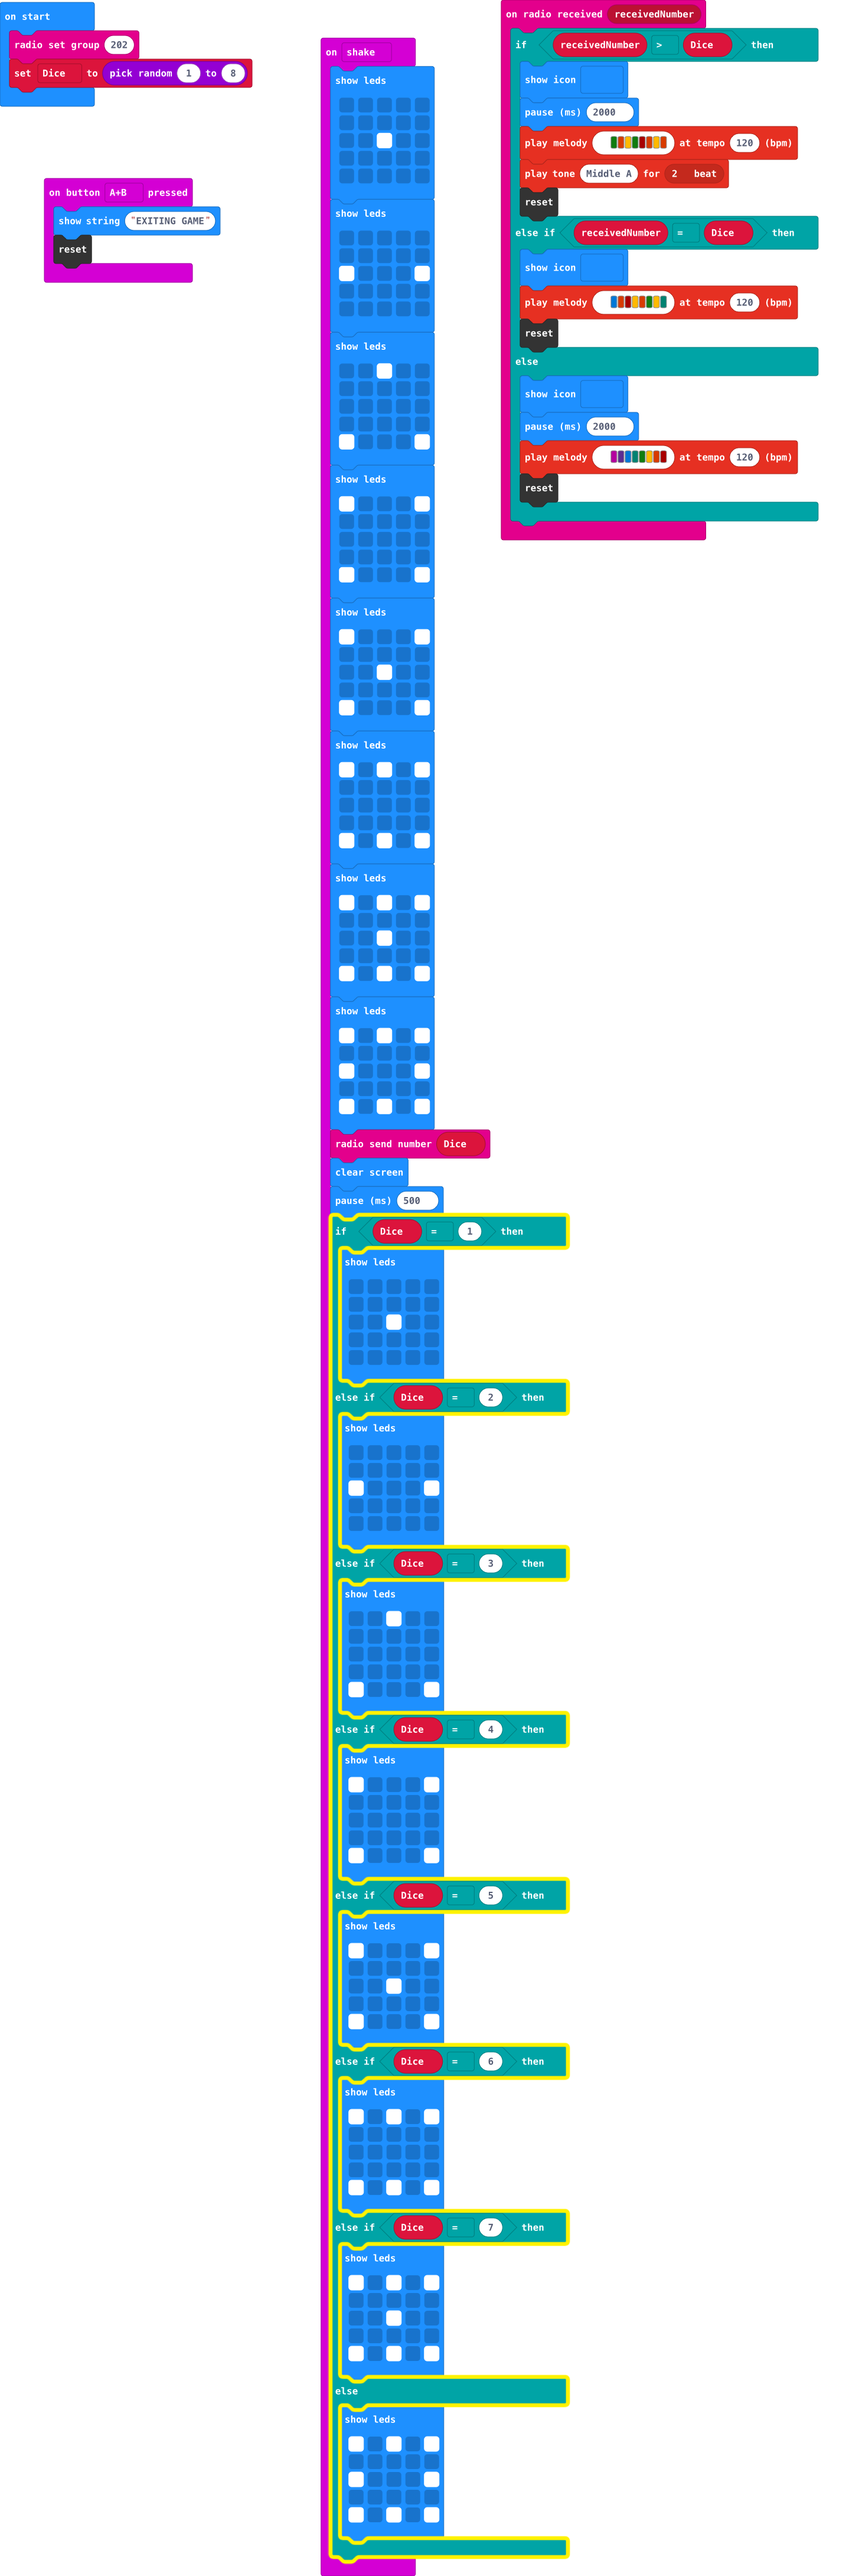
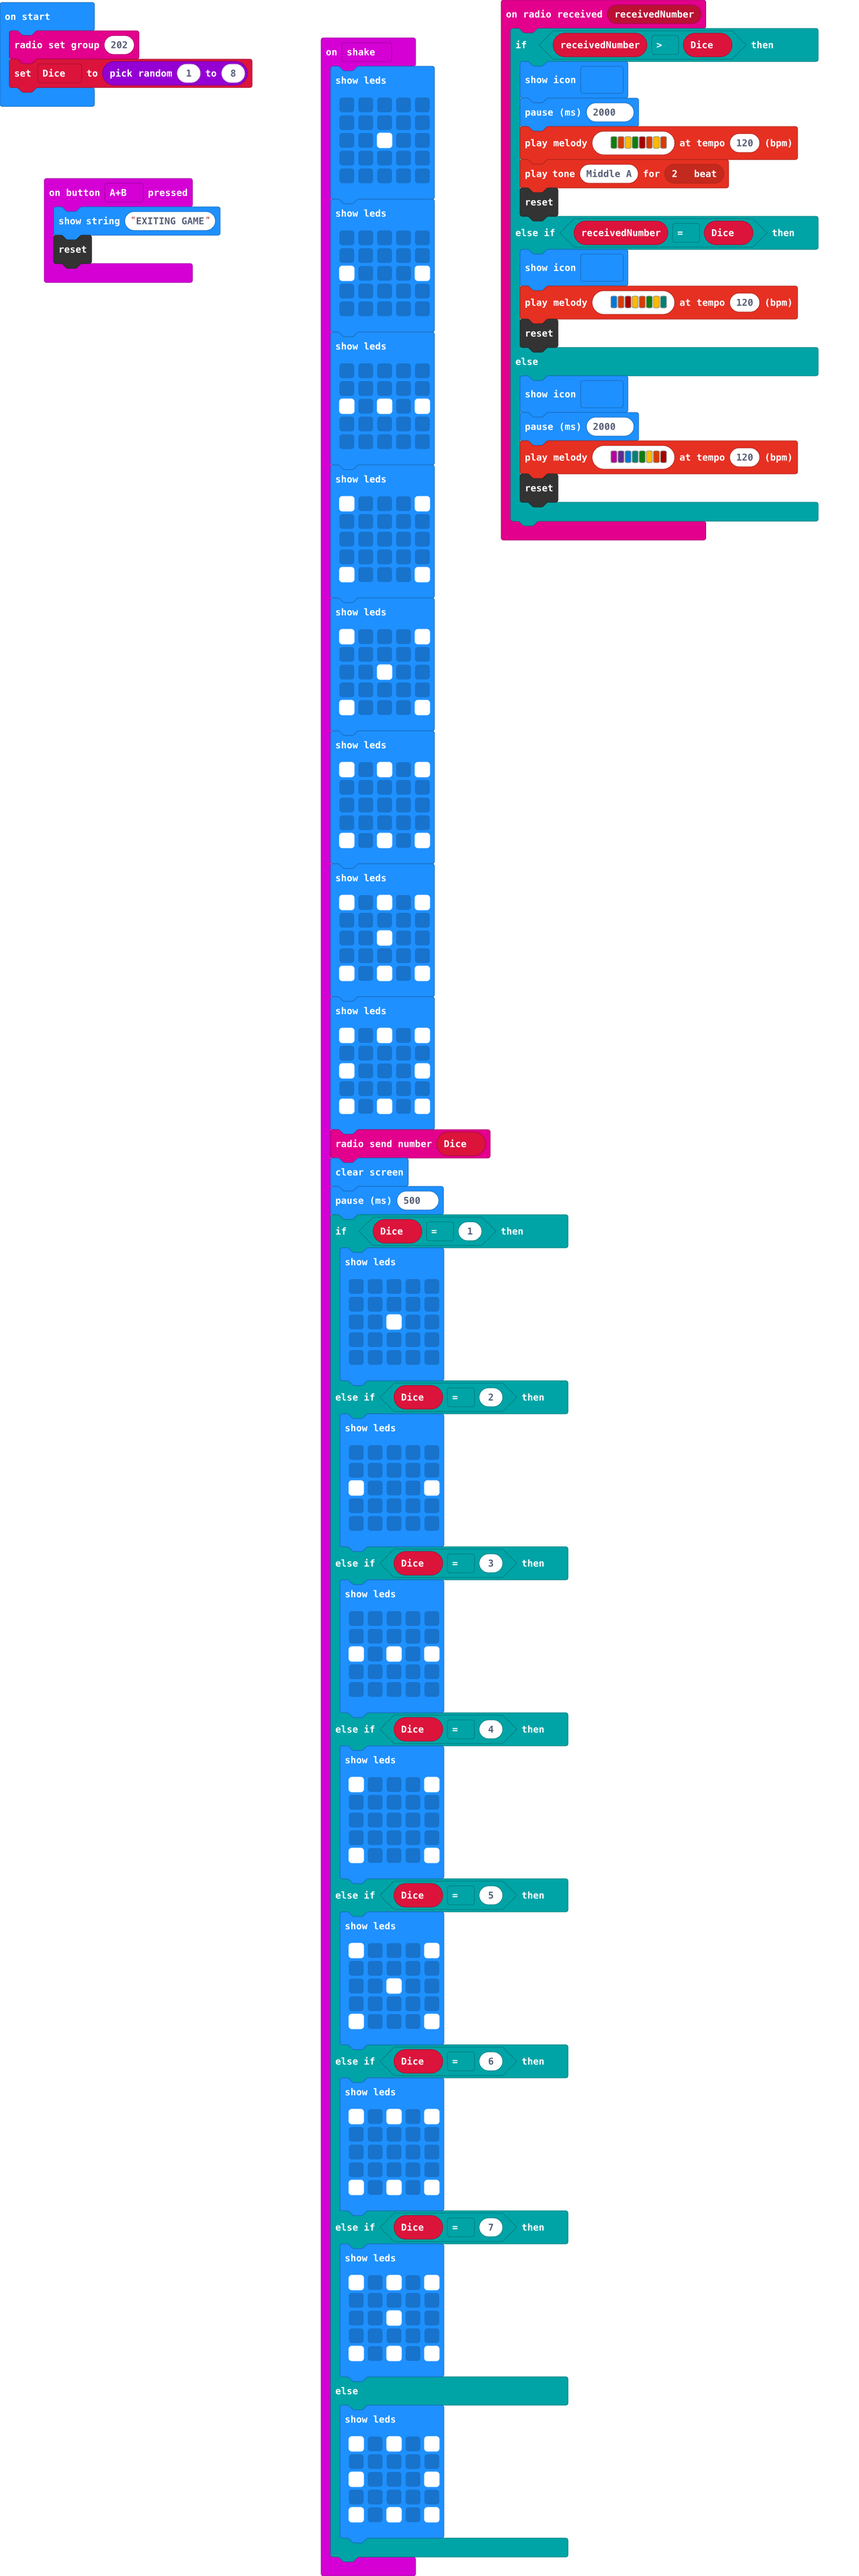
Update main.blocks, main.ts

Changed region(s): [[0.3711, 0.4679, 0.6804, 0.9982], [0.3711, 0.1248, 0.4948, 0.1872]]

diff --git a/main.ts b/main.ts
@@ -36,11 +36,11 @@ input.onGesture(Gesture.Shake, function () {
         . . . . .
         `)
     basic.showLeds(`
-        . . # . .
         . . . . .
         . . . . .
+        # . # . #
         . . . . .
-        # . . . #
+        . . . . .
         `)
     basic.showLeds(`
         # . . . #
@@ -98,11 +98,11 @@ input.onGesture(Gesture.Shake, function () {
             `)
     } else if (Dice == 3) {
         basic.showLeds(`
-            . . # . .
             . . . . .
             . . . . .
+            # . # . #
             . . . . .
-            # . . . #
+            . . . . .
             `)
     } else if (Dice == 4) {
         basic.showLeds(`
